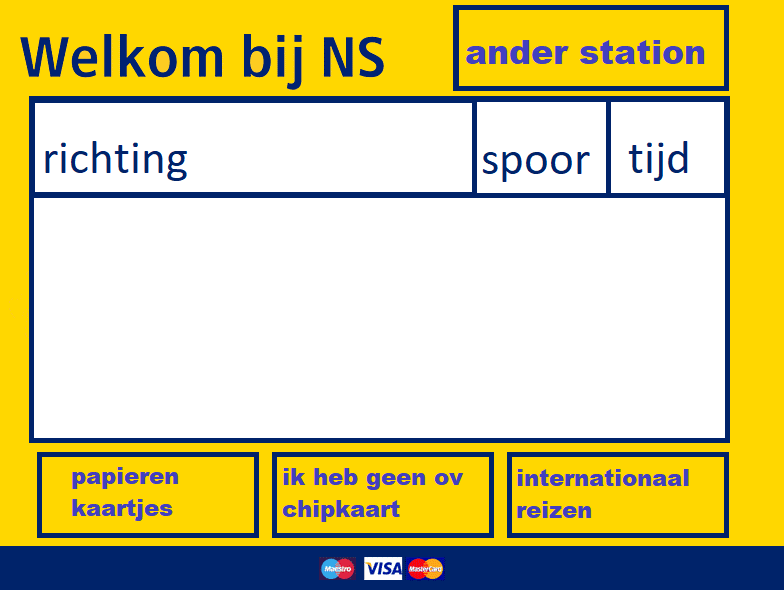
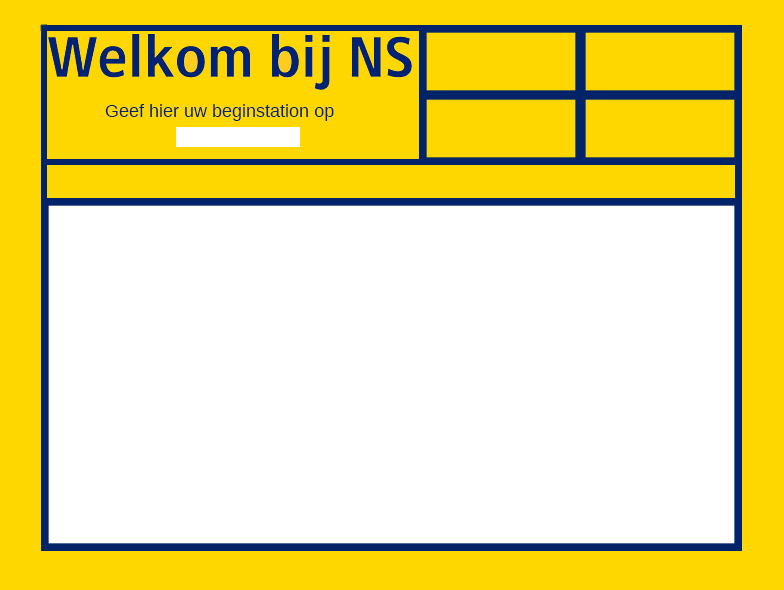
Add files via upload

diff --git a/miniproject-programeren/project1.py b/miniproject-programeren/project1.py
@@ -18,8 +18,8 @@ url="https://webservices.ns.nl/ns-api-stations-v2"
 auth_details=HTTPBasicAuth ("maarten.postmes@student.hu.nl", "KTl93DXFcsc5ePdp8wd_t-d1KMeF6yoiFoUxLBWos9ZbJmFk6VZu3w")
 response = requests.post(url, auth=auth_details)
 
-print(response)
 print(response.content)
+print(response)
 
 xmldict=xmltodict.parse(response.content)
 print(xmldict)
@@ -74,15 +74,17 @@ class Window(Frame):
                         vertrektijd = vertrektijd[11:16]
                         if 'RouteTekst' in vertrek:
                             routetekst = vertrek['RouteTekst']
-                            tijd = ('Om ' + vertrektijd + ' vertrekt een trein naar ' + eindbestemming + '\n' + 'met tussenstation(s) ' + routetekst)
+                            tijd = ('Om ' + vertrektijd + ' vertrekt een trein naar ' + eindbestemming + 'met tussenstation(s) ' + routetekst)
                             label2 = Label(master=root,text='vertrektijden van treinen uit station ' + str(entry.get()), foreground='blue', background='gold', font=('Calibri', 16, 'bold'))
-                            label2.place(x=30, y=30)
-                            label3 = Label(master=root, foreground='blue', font=('calibri', 9, 'bold'), text=tijden)
-                            label3.place(x=300, y=300)
+                            label2.place(x=35, y=110)
+                            label3 = Label(master=root, font=('calibri', 9, 'bold'), justify=LEFT, padx=-50, text=tijden, height=25, width=115, borderwidth=0)
+                            label3.place(x=35, y=199)
                             tijden = tijden + '\n' + '\n' + tijd
                             index = index + 1
-                        if index < 10:
+                        if index < 15:
                             print(index)
+                        else:
+                            break
                 except:
                     showinfo(title='error', message='geen geldig stationsnaam ingevoerd!')
                     tijden = ""
@@ -96,7 +98,7 @@ class Window(Frame):
             self.master.title("Ns Reisplanner")
 
             self.pack(fill=BOTH, expand=1)
-
+            invoerstring = StringVar
             button1 = Button(master=root, text='Ik heb geen OV-chipkaart',font=('Franklin Gothic Medium', 10, 'bold'), background='blue', foreground='white', command=GeenOV)
             button1.place(x=275, y=455, width=217, height=80)
 
@@ -109,9 +111,12 @@ class Window(Frame):
             entry = Entry(master=root)
             entry.place(x=100, y=100)
 
-            button4 = Button(master=root, text='confirm',font=('Franklin Gothic Medium', 10, 'bold'), background='blue', foreground='white', command=tooninfoscherm)
+            button4 = Button(master=root, textvariable = invoerstring, text='confirm',font=('Franklin Gothic Medium', 10, 'bold'), background='blue', foreground='white', command=tooninfoscherm)
             button4.place(x=100, y=200)
 
+            invoerstring = StringVar
+            label_1 = Label(root, text=invoerstring).pack()
+            # label_1.place(x=60, y=90)
 
 
 
